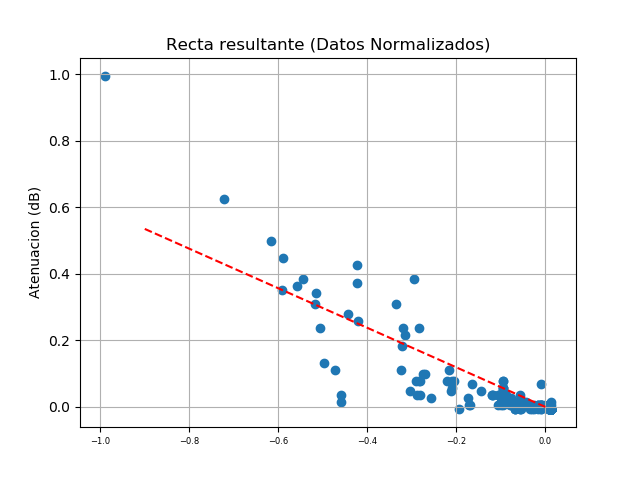
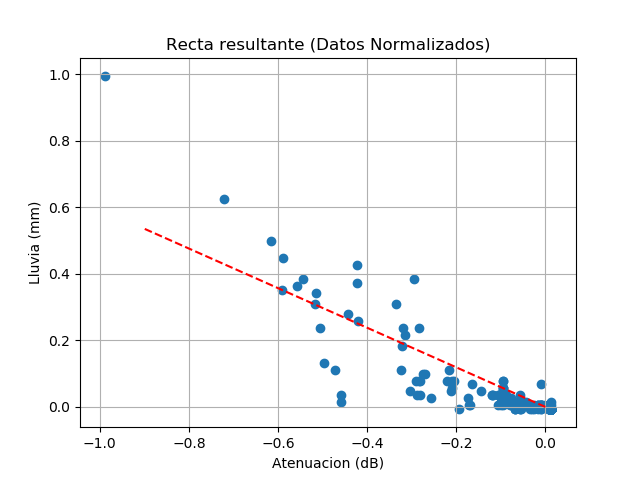
Plataforma Lista

diff --git a/Code/AttenGenerator/AttenGenerator.py b/Code/AttenGenerator/AttenGenerator.py
@@ -6,16 +6,30 @@ dataYear = 2018
 dataMonth = 3
 dataDay = 5
 dataHour = 555
-
+dataCounter = -1
+dataValue = -46
 def generateSample():
     global dataYear
     global dataMonth
     global dataDay
     global dataHour
-    dataValue = randrange(46, 90) * (-1)
+    global dataCounter
+    global dataValue
+    dataCounter += 1
+    if 0<dataCounter<=5:
+        dataValue = randrange(47, 48) * (-1)
+    elif 5<dataCounter<=10:
+        dataValue = randrange(50, 60) * (-1)
+    elif 10<dataCounter<=15:
+        dataValue = randrange(61, 74) * (-1)
+    elif 15<dataCounter<=20:
+        dataValue = randrange(75, 100) * (-1)
+    elif 20<dataCounter<=25:
+        dataValue = randrange(50, 60) * (-1)
+        dataCounter = -1
     dataArray = [dataYear, dataMonth, dataDay, dataHour, dataValue]
     np.savetxt('Sample.txt', dataArray, delimiter=',')
-    if(dataHour == 1435):
+    if(dataHour == 1425):
         if(dataDay == 31):
             if(dataMonth == 12):
                 dataHour = 0

diff --git a/Code/Calibrate.py b/Code/Calibrate.py
@@ -72,16 +72,16 @@ plt.ylabel('Lluvia (mm)')
 plt.xlabel("Total de datos")
 plt.grid(True)
 plt.savefig('Images/Calibration.png')
-
+'''
 #Data plot
 dataHistShow = plt.figure()
 plt.title('Datos Historicos Lluvia vs Atenuacion')
 plt.scatter(X,Y)
 plt.grid(True)
 plt.ylabel("Lluvia (mm)")
-plt.ylabel("Atenuacion (dB)")
+plt.xlabel("Atenuacion (dB)")
 plt.savefig('Images/DataHist.png')
-'''
+
 
 ##################### MULTIPLE LINEAR REGRESSION METHOD ########################
 
@@ -159,7 +159,7 @@ plt.ion()
 plt.scatter(Xnorm,Ynorm)
 plt.grid(True)
 plt.ylabel("Lluvia (mm)")
-plt.ylabel("Atenuacion (dB)")
+plt.xlabel("Atenuacion (dB)")
 plt.savefig('Images/Aprox.png')
 A = -53
 Anorm = (A-Xmean)/(Xmax-Xmin)

diff --git a/Code/Plataform.py b/Code/Plataform.py
@@ -6,7 +6,7 @@ from matplotlib.backends.backend_tkagg import FigureCanvasTkAgg
 from matplotlib.figure import Figure
 import matplotlib.pyplot as plt
 from datetime import date
-
+plt.rcParams.update({'figure.max_open_warning': 0})
 import time
 import threading
 import numpy as np
